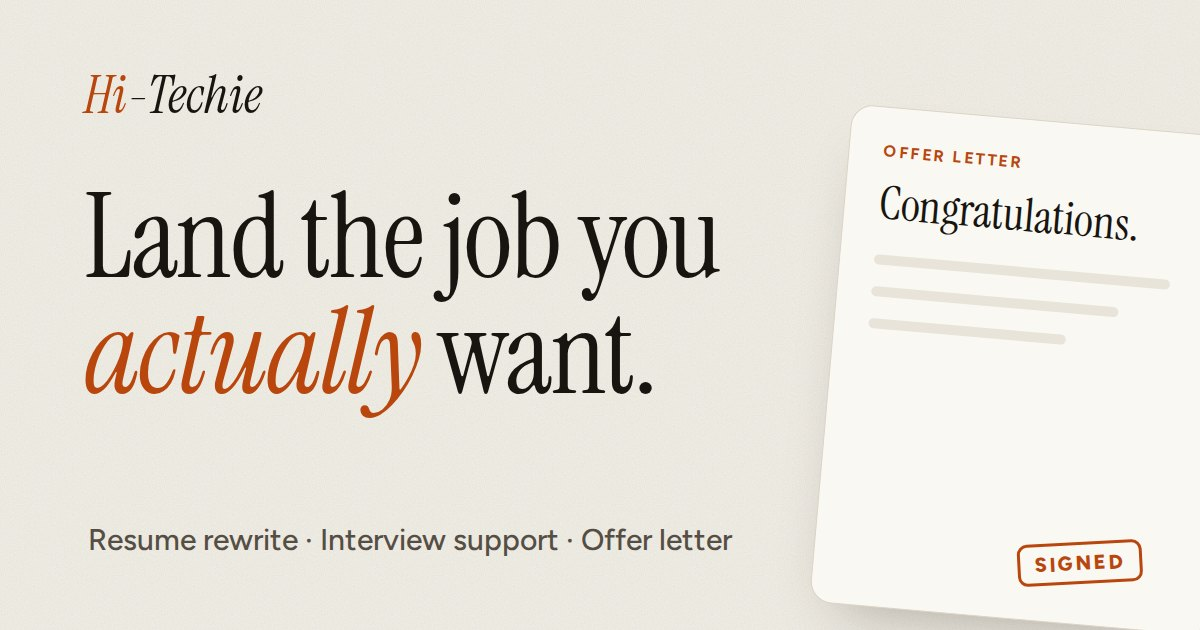
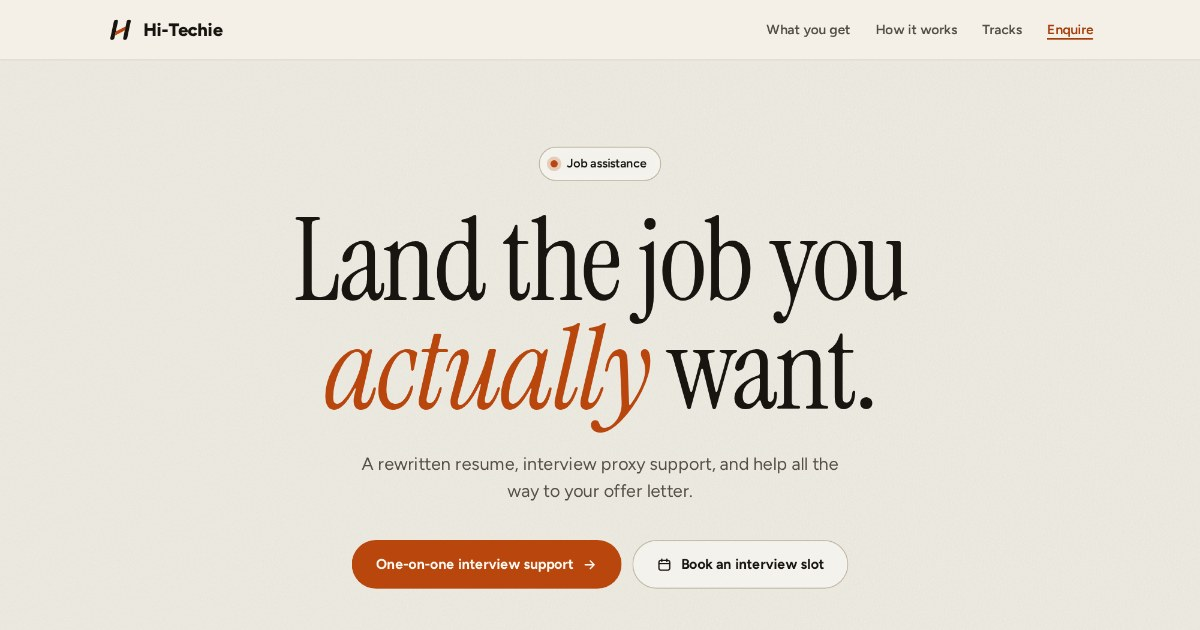
Link previews: homepage picture on every shared page, answer HEAD requests
WhatsApp showed no picture for the onboarding and payment links, which had no
Open Graph tags, and HEAD requests (used by some preview fetchers) got 404 on
pages and a zero length for /og.jpg. The preview picture is now the top of the
landing page with the current logo, served as /og.jpg?v=2 so cached previews refresh.

Claude-Session: https://claude.ai/code/session_013RQ7m42XUYy8DLu5va6DoP

diff --git a/calendly-live-view/src/pages/onboarding.html b/calendly-live-view/src/pages/onboarding.html
@@ -1,1 +1,1 @@
-<!doctype html><html lang="en"><head><meta charset="utf-8"><meta name="color-scheme" content="light dark"><meta name="viewport" content="width=device-width,initial-scale=1,viewport-fit=cover"><meta name="theme-color" content="#f3f0e8" media="(prefers-color-scheme: light)"><meta name="theme-color" content="#161410" media="(prefers-color-scheme: dark)"><meta name="robots" content="noindex, nofollow"><title>Onboarding · __HOST__</title><link rel="icon" type="image/png" href="/favicon.png?v=8"><link rel="preload" href="/assets/figtree-latin.woff2" as="font" type="font/woff2" crossorigin><link rel="preload" href="/assets/instrument-serif.woff2" as="font" type="font/woff2" crossorigin><link rel="stylesheet" href="/assets/enquiry.css"></head><body><main class="eq" id="eq"><header class="eh"><a class="host" href="/"><span class="mark" aria-hidden="true"></span>__HOST__</a><h1>Onboarding</h1><p class="lead">Fill in your details and upload your Aadhaar and PAN cards. Only the __HOST__ team sees them.</p></header><form id="f" novalidate><div class="f"><label for="nm">Full name</label><input id="nm" name="name" autocomplete="name" maxlength="100" required></div><div class="row2"><div class="f"><label for="em">Email (same as your Naukri profile)</label><input id="em" name="email" type="email" inputmode="email" autocomplete="email" autocapitalize="off" spellcheck="false" maxlength="200" required></div><div class="f"><label for="ph">Phone number</label><input id="ph" name="phone" type="tel" inputmode="tel" autocomplete="tel" maxlength="20" placeholder="98765 43210" required></div></div><div class="row2"><div class="f"><label for="tc">Technology</label><input id="tc" name="tech" list="techs" autocomplete="off" maxlength="100" placeholder="e.g. Java, Python, DevOps" required><datalist id="techs"><option value="Java"><option value="Python"><option value=".NET"><option value="JavaScript / React"><option value="Angular"><option value="Node.js"><option value="Full Stack"><option value="Data Science"><option value="Data Engineering"><option value="AI / Machine Learning"><option value="DevOps"><option value="Cloud (AWS / Azure / GCP)"><option value="Testing / QA"><option value="Automation Testing"><option value="SAP"><option value="Salesforce"><option value="Power BI"><option value="Cyber Security"></datalist></div><div class="f"><label for="yx">Years of experience</label><select id="yx" name="experience" required><option value="">Select</option><option>Fresher</option><option>Less than 1 year</option><option>1 year</option><option>2 years</option><option>3 years</option><option>4 years</option><option>5 years</option><option>6 years</option><option>7 years</option><option>8 years</option><option>9 years</option><option>10 years</option><option>11–15 years</option><option>More than 15 years</option></select></div></div><div class="row2"><div class="f"><label for="gn">Is your experience genuine?</label><select id="gn" name="genuine" required><option value="">Select</option><option value="yes">Yes</option><option value="no">No</option></select></div><div class="f"><label for="li">LinkedIn profile</label><input id="li" name="linkedin" type="url" inputmode="url" autocomplete="url" autocapitalize="off" spellcheck="false" maxlength="200" placeholder="linkedin.com/in/your-name" required></div></div><div class="row2"><div class="f"><label for="ad">Aadhaar card</label><label class="drop" for="ad" id="adbox"><input id="ad" name="aadhaar" type="file" accept="image/*,.pdf,application/pdf" required aria-describedby="adhint"><span class="dico" aria-hidden="true"><svg viewBox="0 0 24 24" fill="none" stroke="currentColor" stroke-width="1.8" stroke-linecap="round" stroke-linejoin="round"><path d="M12 16V4M7 9l5-5 5 5M5 20h14"/></svg></span><span class="dtxt"><b id="adname">Upload your Aadhaar card</b><small id="adhint">A photo or PDF</small></span></label></div><div class="f"><label for="pn">PAN card</label><label class="drop" for="pn" id="pnbox"><input id="pn" name="pan" type="file" accept="image/*,.pdf,application/pdf" required aria-describedby="pnhint"><span class="dico" aria-hidden="true"><svg viewBox="0 0 24 24" fill="none" stroke="currentColor" stroke-width="1.8" stroke-linecap="round" stroke-linejoin="round"><path d="M12 16V4M7 9l5-5 5 5M5 20h14"/></svg></span><span class="dtxt"><b id="pnname">Upload your PAN card</b><small id="pnhint">A photo or PDF</small></span></label></div></div><div class="hp" aria-hidden="true"><label for="ws">Website</label><input id="ws" name="website" tabindex="-1" autocomplete="off"></div><button id="go" type="submit">Submit</button><div id="err" class="err" role="alert"></div></form><section id="done" class="done" hidden><div class="tick" aria-hidden="true"><svg viewBox="0 0 24 24" fill="none" stroke="currentColor" stroke-width="2.4" stroke-linecap="round" stroke-linejoin="round"><path d="m5 12.5 4.5 4.5L19 7.5"/></svg></div><h2>Thank you!</h2><p id="donetxt">We've received your details.</p></section></main><script type="application/json" id="boot">__BOOT__</script><script src="/assets/onboarding.js"></script></body></html>
+<!doctype html><html lang="en"><head><meta charset="utf-8"><meta name="color-scheme" content="light dark"><meta name="viewport" content="width=device-width,initial-scale=1,viewport-fit=cover"><meta name="theme-color" content="#f3f0e8" media="(prefers-color-scheme: light)"><meta name="theme-color" content="#161410" media="(prefers-color-scheme: dark)"><meta name="robots" content="noindex, nofollow"><title>Onboarding · __HOST__</title>__OG__<link rel="icon" type="image/png" href="/favicon.png?v=8"><link rel="preload" href="/assets/figtree-latin.woff2" as="font" type="font/woff2" crossorigin><link rel="preload" href="/assets/instrument-serif.woff2" as="font" type="font/woff2" crossorigin><link rel="stylesheet" href="/assets/enquiry.css"></head><body><main class="eq" id="eq"><header class="eh"><a class="host" href="/"><span class="mark" aria-hidden="true"></span>__HOST__</a><h1>Onboarding</h1><p class="lead">Fill in your details and upload your Aadhaar and PAN cards. Only the __HOST__ team sees them.</p></header><form id="f" novalidate><div class="f"><label for="nm">Full name</label><input id="nm" name="name" autocomplete="name" maxlength="100" required></div><div class="row2"><div class="f"><label for="em">Email (same as your Naukri profile)</label><input id="em" name="email" type="email" inputmode="email" autocomplete="email" autocapitalize="off" spellcheck="false" maxlength="200" required></div><div class="f"><label for="ph">Phone number</label><input id="ph" name="phone" type="tel" inputmode="tel" autocomplete="tel" maxlength="20" placeholder="98765 43210" required></div></div><div class="row2"><div class="f"><label for="tc">Technology</label><input id="tc" name="tech" list="techs" autocomplete="off" maxlength="100" placeholder="e.g. Java, Python, DevOps" required><datalist id="techs"><option value="Java"><option value="Python"><option value=".NET"><option value="JavaScript / React"><option value="Angular"><option value="Node.js"><option value="Full Stack"><option value="Data Science"><option value="Data Engineering"><option value="AI / Machine Learning"><option value="DevOps"><option value="Cloud (AWS / Azure / GCP)"><option value="Testing / QA"><option value="Automation Testing"><option value="SAP"><option value="Salesforce"><option value="Power BI"><option value="Cyber Security"></datalist></div><div class="f"><label for="yx">Years of experience</label><select id="yx" name="experience" required><option value="">Select</option><option>Fresher</option><option>Less than 1 year</option><option>1 year</option><option>2 years</option><option>3 years</option><option>4 years</option><option>5 years</option><option>6 years</option><option>7 years</option><option>8 years</option><option>9 years</option><option>10 years</option><option>11–15 years</option><option>More than 15 years</option></select></div></div><div class="row2"><div class="f"><label for="gn">Is your experience genuine?</label><select id="gn" name="genuine" required><option value="">Select</option><option value="yes">Yes</option><option value="no">No</option></select></div><div class="f"><label for="li">LinkedIn profile</label><input id="li" name="linkedin" type="url" inputmode="url" autocomplete="url" autocapitalize="off" spellcheck="false" maxlength="200" placeholder="linkedin.com/in/your-name" required></div></div><div class="row2"><div class="f"><label for="ad">Aadhaar card</label><label class="drop" for="ad" id="adbox"><input id="ad" name="aadhaar" type="file" accept="image/*,.pdf,application/pdf" required aria-describedby="adhint"><span class="dico" aria-hidden="true"><svg viewBox="0 0 24 24" fill="none" stroke="currentColor" stroke-width="1.8" stroke-linecap="round" stroke-linejoin="round"><path d="M12 16V4M7 9l5-5 5 5M5 20h14"/></svg></span><span class="dtxt"><b id="adname">Upload your Aadhaar card</b><small id="adhint">A photo or PDF</small></span></label></div><div class="f"><label for="pn">PAN card</label><label class="drop" for="pn" id="pnbox"><input id="pn" name="pan" type="file" accept="image/*,.pdf,application/pdf" required aria-describedby="pnhint"><span class="dico" aria-hidden="true"><svg viewBox="0 0 24 24" fill="none" stroke="currentColor" stroke-width="1.8" stroke-linecap="round" stroke-linejoin="round"><path d="M12 16V4M7 9l5-5 5 5M5 20h14"/></svg></span><span class="dtxt"><b id="pnname">Upload your PAN card</b><small id="pnhint">A photo or PDF</small></span></label></div></div><div class="hp" aria-hidden="true"><label for="ws">Website</label><input id="ws" name="website" tabindex="-1" autocomplete="off"></div><button id="go" type="submit">Submit</button><div id="err" class="err" role="alert"></div></form><section id="done" class="done" hidden><div class="tick" aria-hidden="true"><svg viewBox="0 0 24 24" fill="none" stroke="currentColor" stroke-width="2.4" stroke-linecap="round" stroke-linejoin="round"><path d="m5 12.5 4.5 4.5L19 7.5"/></svg></div><h2>Thank you!</h2><p id="donetxt">We've received your details.</p></section></main><script type="application/json" id="boot">__BOOT__</script><script src="/assets/onboarding.js"></script></body></html>

diff --git a/calendly-live-view/src/pages/payment.html b/calendly-live-view/src/pages/payment.html
@@ -1,1 +1,1 @@
-<!doctype html><html lang="en"><head><meta charset="utf-8"><meta name="color-scheme" content="light dark"><meta name="viewport" content="width=device-width,initial-scale=1,viewport-fit=cover"><meta name="theme-color" content="#f3f0e8" media="(prefers-color-scheme: light)"><meta name="theme-color" content="#161410" media="(prefers-color-scheme: dark)"><meta name="robots" content="noindex, nofollow"><title>Payment · __HOST__</title><link rel="icon" type="image/png" href="/favicon.png?v=8"><link rel="preload" href="/assets/figtree-latin.woff2" as="font" type="font/woff2" crossorigin><link rel="preload" href="/assets/instrument-serif.woff2" as="font" type="font/woff2" crossorigin><link rel="stylesheet" href="/assets/enquiry.css"><link rel="stylesheet" href="/assets/payment.css"></head><body><main class="eq" id="eq"><header class="eh"><a class="host" href="/"><span class="mark" aria-hidden="true"></span>__HOST__</a><h1>Payment</h1><p class="lead">Tell us about your payment and attach the receipt.</p></header><form id="f" novalidate><div class="f"><label for="nm">Full name</label><input id="nm" name="name" autocomplete="name" maxlength="100" required></div><div class="f"><label for="em">Email</label><input id="em" name="email" type="email" inputmode="email" autocomplete="email" autocapitalize="off" spellcheck="false" maxlength="200" required></div><div class="f"><label for="in">Installment</label><select id="in" name="installment" required><option value="" selected disabled>Choose one</option><option value="advance">Advance</option><option value="1">First installment</option><option value="final">Final installment</option></select></div><div class="f"><label for="am">Amount paid</label><div class="amt"><span class="cur" aria-hidden="true">₹</span><input id="am" name="amount" inputmode="decimal" autocomplete="off" maxlength="12" placeholder="0" required></div></div><div class="f"><label for="rc">Payment receipt</label><label class="drop" for="rc" id="dropbox"><input id="rc" name="receipt" type="file" accept="image/*,.pdf,application/pdf" required><span class="dico" aria-hidden="true"><svg viewBox="0 0 24 24" fill="none" stroke="currentColor" stroke-width="1.8" stroke-linecap="round" stroke-linejoin="round"><path d="M12 16V4M7 9l5-5 5 5M5 20h14"/></svg></span><span class="dtxt"><b id="rcname">Attach your receipt</b><small id="rchint">A photo, screenshot or PDF</small></span></label></div><div class="hp" aria-hidden="true"><label for="ws">Website</label><input id="ws" name="website" tabindex="-1" autocomplete="off"></div><button id="go" type="submit">Submit</button><div id="err" class="err" role="alert"></div></form><section id="done" class="done" hidden><div class="tick" aria-hidden="true"><svg viewBox="0 0 24 24" fill="none" stroke="currentColor" stroke-width="2.4" stroke-linecap="round" stroke-linejoin="round"><path d="m5 12.5 4.5 4.5L19 7.5"/></svg></div><h2>Thank you!</h2><p id="donetxt">We've received your payment details.</p></section></main><script type="application/json" id="boot">__BOOT__</script><script src="/assets/payment.js"></script></body></html>
+<!doctype html><html lang="en"><head><meta charset="utf-8"><meta name="color-scheme" content="light dark"><meta name="viewport" content="width=device-width,initial-scale=1,viewport-fit=cover"><meta name="theme-color" content="#f3f0e8" media="(prefers-color-scheme: light)"><meta name="theme-color" content="#161410" media="(prefers-color-scheme: dark)"><meta name="robots" content="noindex, nofollow"><title>Payment · __HOST__</title>__OG__<link rel="icon" type="image/png" href="/favicon.png?v=8"><link rel="preload" href="/assets/figtree-latin.woff2" as="font" type="font/woff2" crossorigin><link rel="preload" href="/assets/instrument-serif.woff2" as="font" type="font/woff2" crossorigin><link rel="stylesheet" href="/assets/enquiry.css"><link rel="stylesheet" href="/assets/payment.css"></head><body><main class="eq" id="eq"><header class="eh"><a class="host" href="/"><span class="mark" aria-hidden="true"></span>__HOST__</a><h1>Payment</h1><p class="lead">Tell us about your payment and attach the receipt.</p></header><form id="f" novalidate><div class="f"><label for="nm">Full name</label><input id="nm" name="name" autocomplete="name" maxlength="100" required></div><div class="f"><label for="em">Email</label><input id="em" name="email" type="email" inputmode="email" autocomplete="email" autocapitalize="off" spellcheck="false" maxlength="200" required></div><div class="f"><label for="in">Installment</label><select id="in" name="installment" required><option value="" selected disabled>Choose one</option><option value="advance">Advance</option><option value="1">First installment</option><option value="final">Final installment</option></select></div><div class="f"><label for="am">Amount paid</label><div class="amt"><span class="cur" aria-hidden="true">₹</span><input id="am" name="amount" inputmode="decimal" autocomplete="off" maxlength="12" placeholder="0" required></div></div><div class="f"><label for="rc">Payment receipt</label><label class="drop" for="rc" id="dropbox"><input id="rc" name="receipt" type="file" accept="image/*,.pdf,application/pdf" required><span class="dico" aria-hidden="true"><svg viewBox="0 0 24 24" fill="none" stroke="currentColor" stroke-width="1.8" stroke-linecap="round" stroke-linejoin="round"><path d="M12 16V4M7 9l5-5 5 5M5 20h14"/></svg></span><span class="dtxt"><b id="rcname">Attach your receipt</b><small id="rchint">A photo, screenshot or PDF</small></span></label></div><div class="hp" aria-hidden="true"><label for="ws">Website</label><input id="ws" name="website" tabindex="-1" autocomplete="off"></div><button id="go" type="submit">Submit</button><div id="err" class="err" role="alert"></div></form><section id="done" class="done" hidden><div class="tick" aria-hidden="true"><svg viewBox="0 0 24 24" fill="none" stroke="currentColor" stroke-width="2.4" stroke-linecap="round" stroke-linejoin="round"><path d="m5 12.5 4.5 4.5L19 7.5"/></svg></div><h2>Thank you!</h2><p id="donetxt">We've received your payment details.</p></section></main><script type="application/json" id="boot">__BOOT__</script><script src="/assets/payment.js"></script></body></html>

diff --git a/calendly-live-view/src/server/pages.ts b/calendly-live-view/src/server/pages.ts
@@ -8,7 +8,8 @@ import { deflateSync } from "node:zlib";
 
 export const ICON = encode(readFileSync(join(import.meta.dir, "../../public/icon.png")), "image/png");
 // The browser-tab icon: the same drawing in orange with no tile, which reads on light and dark tab bars.
-// The picture shown when a page's link is shared (WhatsApp, LinkedIn, X...): 1200x630, the landing's headline.
+// The picture shown when a page's link is shared (WhatsApp, LinkedIn, X...): 1200x630, the top of the landing page.
+// Chat apps cache it by address, so bump ?v= in og() when the picture changes.
 export const OG_IMAGE = encode(readFileSync(join(import.meta.dir, "../../public/og.jpg")), "image/jpeg");
 export const FAVICON = encode(readFileSync(join(import.meta.dir, "../../public/favicon.png")), "image/png");
 // The service worker shows booking alerts, and makes the home-screen app open instantly and offline: admin pages are
@@ -19,7 +20,7 @@ export const SW_JS = readFileSync(join(import.meta.dir, "sw.js"), "utf8");
 const safeJson = (x: unknown) => JSON.stringify(x).replace(/</g, "\\u003c");
 const fill = (html: string, vals: Record<string, string>) => html.replace(/__([A-Z]+)__/g, (m, k) => (k in vals ? vals[k] : m));
 const HOST_HTML = Bun.escapeHTML(HOST_NAME);
-// Link previews (Open Graph) for the pages people share: the landing, booking and enquiry pages. Previews need full
+// Link previews (Open Graph) for the pages people share: landing, booking, enquiry, payment and onboarding. Previews need full
 // addresses, so they use PUBLIC_URL (without www), or hi-techie.dev when it isn't set.
 const SITE = (PUBLIC_URL || "https://hi-techie.dev").replace("://www.", "://");
 const og = (title: string, text: string, path: string) =>
@@ -29,7 +30,9 @@ const og = (title: string, text: string, path: string) =>
     ["og:title", title],
     ["og:description", text],
     ["og:url", SITE + path],
-    ["og:image", SITE + "/og.jpg"],
+    ["og:image", SITE + "/og.jpg?v=2"],
+    ["og:image:type", "image/jpeg"],
+    ["og:image:alt", HOST_NAME + " home page"],
     ["og:image:width", "1200"],
     ["og:image:height", "630"],
   ]
@@ -147,9 +150,23 @@ export const ENQUIRY = shell(
   }),
   CSP.page,
 );
-export const PAYMENT = shell(fill(template("payment"), { HOST: HOST_HTML, BOOT: safeJson({ max: RECEIPT_MAX }) }), CSP.page);
+export const PAYMENT = shell(
+  fill(template("payment"), {
+    HOST: HOST_HTML,
+    OG: og("Payment · " + HOST_NAME, "Send your payment receipt to " + HOST_NAME + ".", "/payment"),
+    BOOT: safeJson({ max: RECEIPT_MAX }),
+  }),
+  CSP.page,
+);
 // shared by link only, like the payment page
-export const ONBOARDING = shell(fill(template("onboarding"), { HOST: HOST_HTML, BOOT: safeJson({ max: ID_CARD_MAX }) }), CSP.page);
+export const ONBOARDING = shell(
+  fill(template("onboarding"), {
+    HOST: HOST_HTML,
+    OG: og("Onboarding · " + HOST_NAME, "Share your details to get started with " + HOST_NAME + ".", "/onboarding"),
+    BOOT: safeJson({ max: ID_CARD_MAX }),
+  }),
+  CSP.page,
+);
 // the landing page is the one page search engines may list
 const HOME_TEXT = "A rewritten resume, interview support and help all the way to your offer letter.";
 export const HOME = {

diff --git a/calendly-live-view/src/server/routes/public.ts b/calendly-live-view/src/server/routes/public.ts
@@ -15,7 +15,8 @@ import { DATE_KEY, EMAIL_RE, UUID, normEmail } from "../util";
 
 export async function publicRoute(req: Request, url: URL, srv: Srv): Promise<Response | null> {
   const path = url.pathname;
-  const method = req.method;
+  // HEAD is answered like GET (respond() drops the body): link-preview fetchers check pages and pictures with it
+  const method = req.method === "HEAD" ? "GET" : req.method;
 
   if (path === "/healthz") return new Response("ok", { headers: BASE_HEADERS });
   if (path === "/sw.js")
@@ -49,7 +50,7 @@ export async function publicRoute(req: Request, url: URL, srv: Srv): Promise<Res
       }),
       { headers: { ...BASE_HEADERS, "Content-Type": "application/manifest+json", "Cache-Control": "no-cache" } },
     );
-  if (path.startsWith("/splash/") && (method === "GET" || method === "HEAD")) {
+  if (path.startsWith("/splash/") && method === "GET") {
     const body = splash(path.slice(8));
     return body
       ? respond(req, body, { ...BASE_HEADERS, "Cache-Control": "public, max-age=86400" })
@@ -60,7 +61,7 @@ export async function publicRoute(req: Request, url: URL, srv: Srv): Promise<Res
     return respond(req, FAVICON, { ...BASE_HEADERS, "Cache-Control": "public, max-age=86400" });
   if (path === "/icon.png" || path === "/apple-touch-icon.png" || path === "/apple-touch-icon-precomposed.png")
     return respond(req, ICON, { ...BASE_HEADERS, "Cache-Control": "public, max-age=86400" });
-  if (path.startsWith("/assets/") && (method === "GET" || method === "HEAD")) {
+  if (path.startsWith("/assets/") && method === "GET") {
     const a = asset(path);
     if (!a) return new Response("Not found", { status: 404, headers: BASE_HEADERS });
     return respond(req, a.body, { ...BASE_HEADERS, "Cache-Control": a.current ? "public, max-age=31536000, immutable" : "no-cache" });

diff --git a/calendly-live-view/tests/server.test.ts b/calendly-live-view/tests/server.test.ts
@@ -1064,20 +1064,29 @@ test("the tab icon is served from public/favicon.png at /favicon.png and /favico
   }
 });
 
-test("shared links of the landing, booking and enquiry pages get a preview with the picture at /og.jpg", async () => {
+test("shared links of every public page get a preview with the picture at /og.jpg, also when asked with HEAD", async () => {
   for (const [path, title] of [
     ["/", "Hi&lt;Techie&gt; · Job assistance"],
     ["/booking", "Book an interview slot"],
     ["/enquiry", "Interview support"],
+    ["/payment", "Payment · "],
+    ["/onboarding", "Onboarding · "],
   ]) {
     const html = await (await get(open, path)).text();
-    expect(html).toContain('<meta property="og:image" content="https://hi-techie.dev/og.jpg">');
+    expect(html).toContain('<meta property="og:image" content="https://hi-techie.dev/og.jpg?v=2">');
     expect(html).toContain(title);
     expect(html).not.toContain("__OG__");
+    const head = await fetch(open.url + path, { method: "HEAD" });
+    expect(head.status).toBe(200);
+    expect(await head.text()).toBe("");
   }
-  const r = await get(open, "/og.jpg");
+  const file = readFileSync(join(ROOT, "public/og.jpg"));
+  const r = await get(open, "/og.jpg?v=2");
   expect(r.headers.get("content-type")).toBe("image/jpeg");
-  expect(Buffer.from(await r.arrayBuffer()).equals(readFileSync(join(ROOT, "public/og.jpg")))).toBe(true);
+  expect(Buffer.from(await r.arrayBuffer()).equals(file)).toBe(true);
+  const head = await fetch(open.url + "/og.jpg", { method: "HEAD" });
+  expect(head.status).toBe(200);
+  expect(head.headers.get("content-length")).toBe(String(file.length));
 });
 
 describe("backups", () => {

diff --git a/calendly-live-view/src/assets.ts b/calendly-live-view/src/assets.ts
@@ -52,7 +52,9 @@ export function respond(req: Request, body: Encoded, headers: Record<string, str
     data = body.gz;
     h["Content-Encoding"] = "gzip";
   }
-  return new Response(req.method === "HEAD" ? null : (data as Uint8Array<ArrayBuffer>), { status, headers: h });
+  // link-preview fetchers (WhatsApp...) may ask with HEAD first and skip a picture whose size reads as 0
+  if (req.method === "HEAD") return new Response(null, { status, headers: { ...h, "Content-Length": String(data.length) } });
+  return new Response(data as Uint8Array<ArrayBuffer>, { status, headers: h });
 }
 
 const fingerprint = (name: string, data: Buffer) => {
